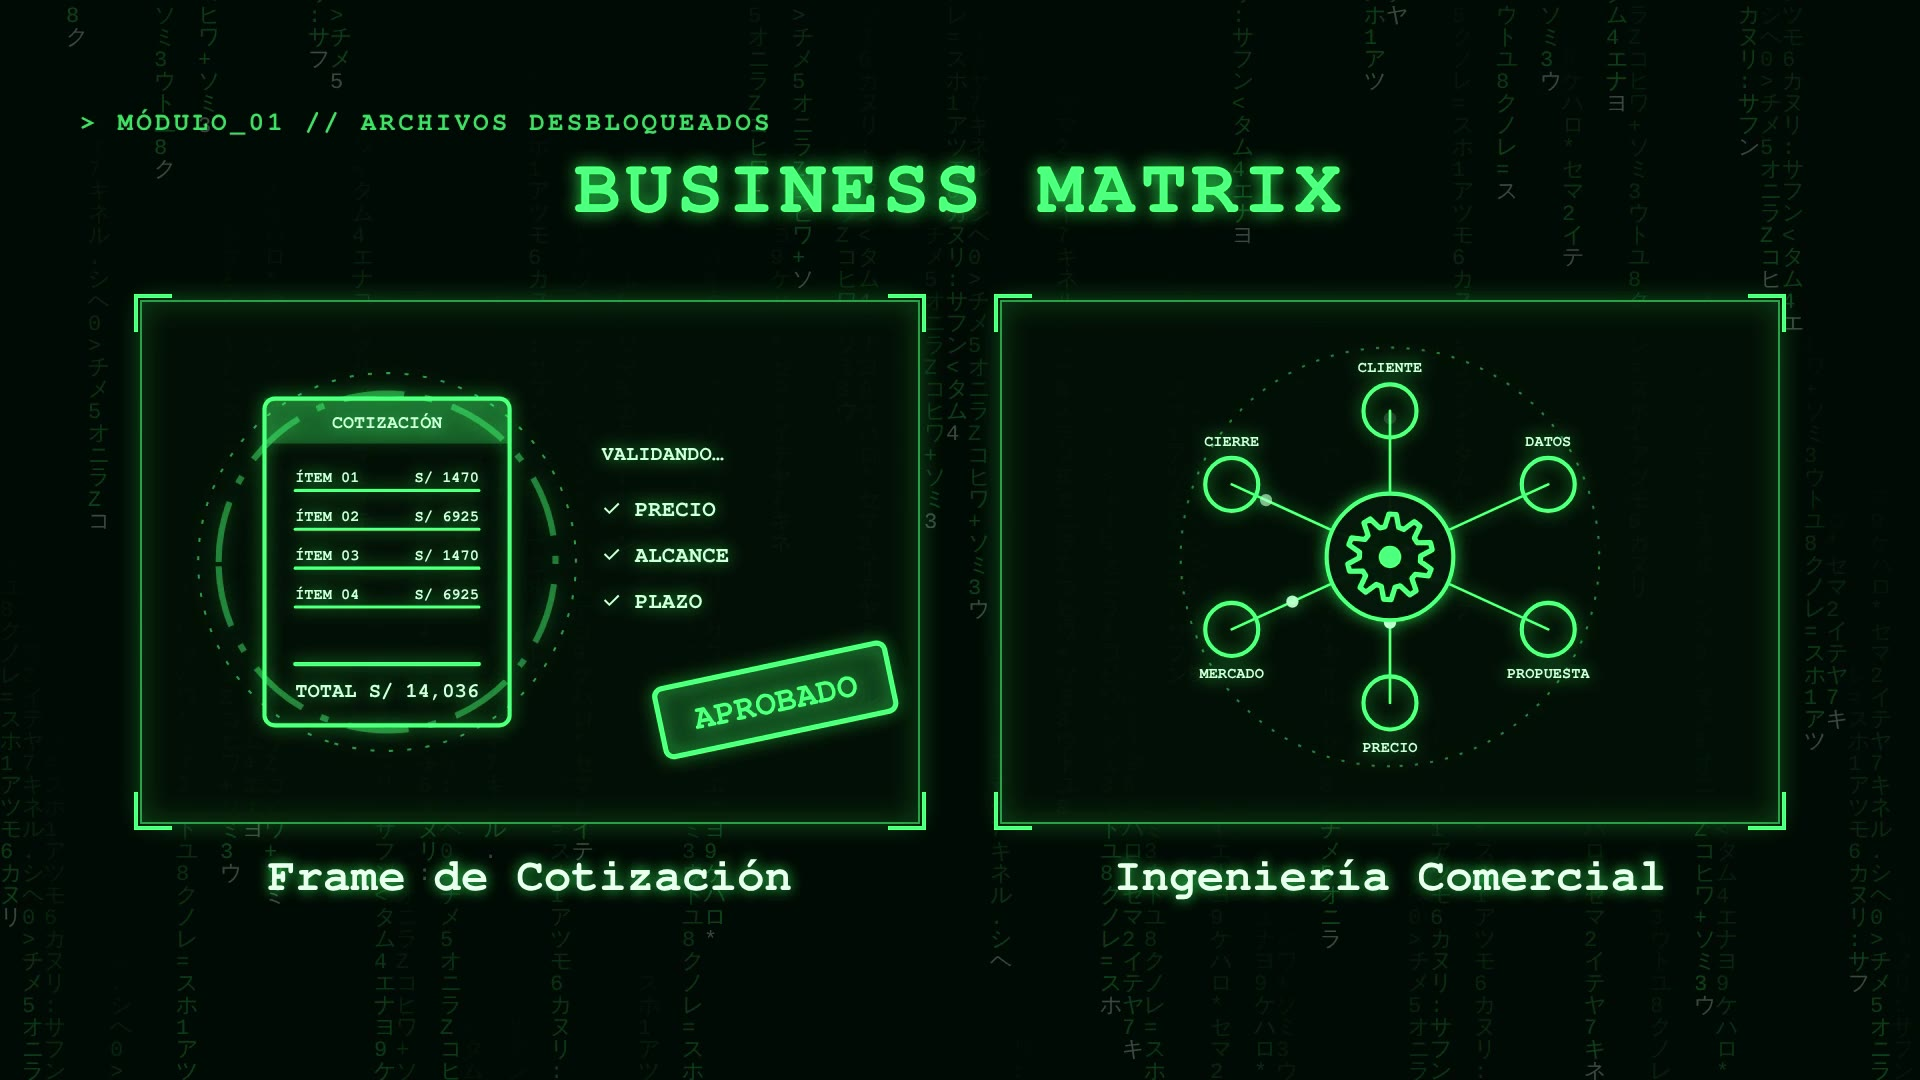
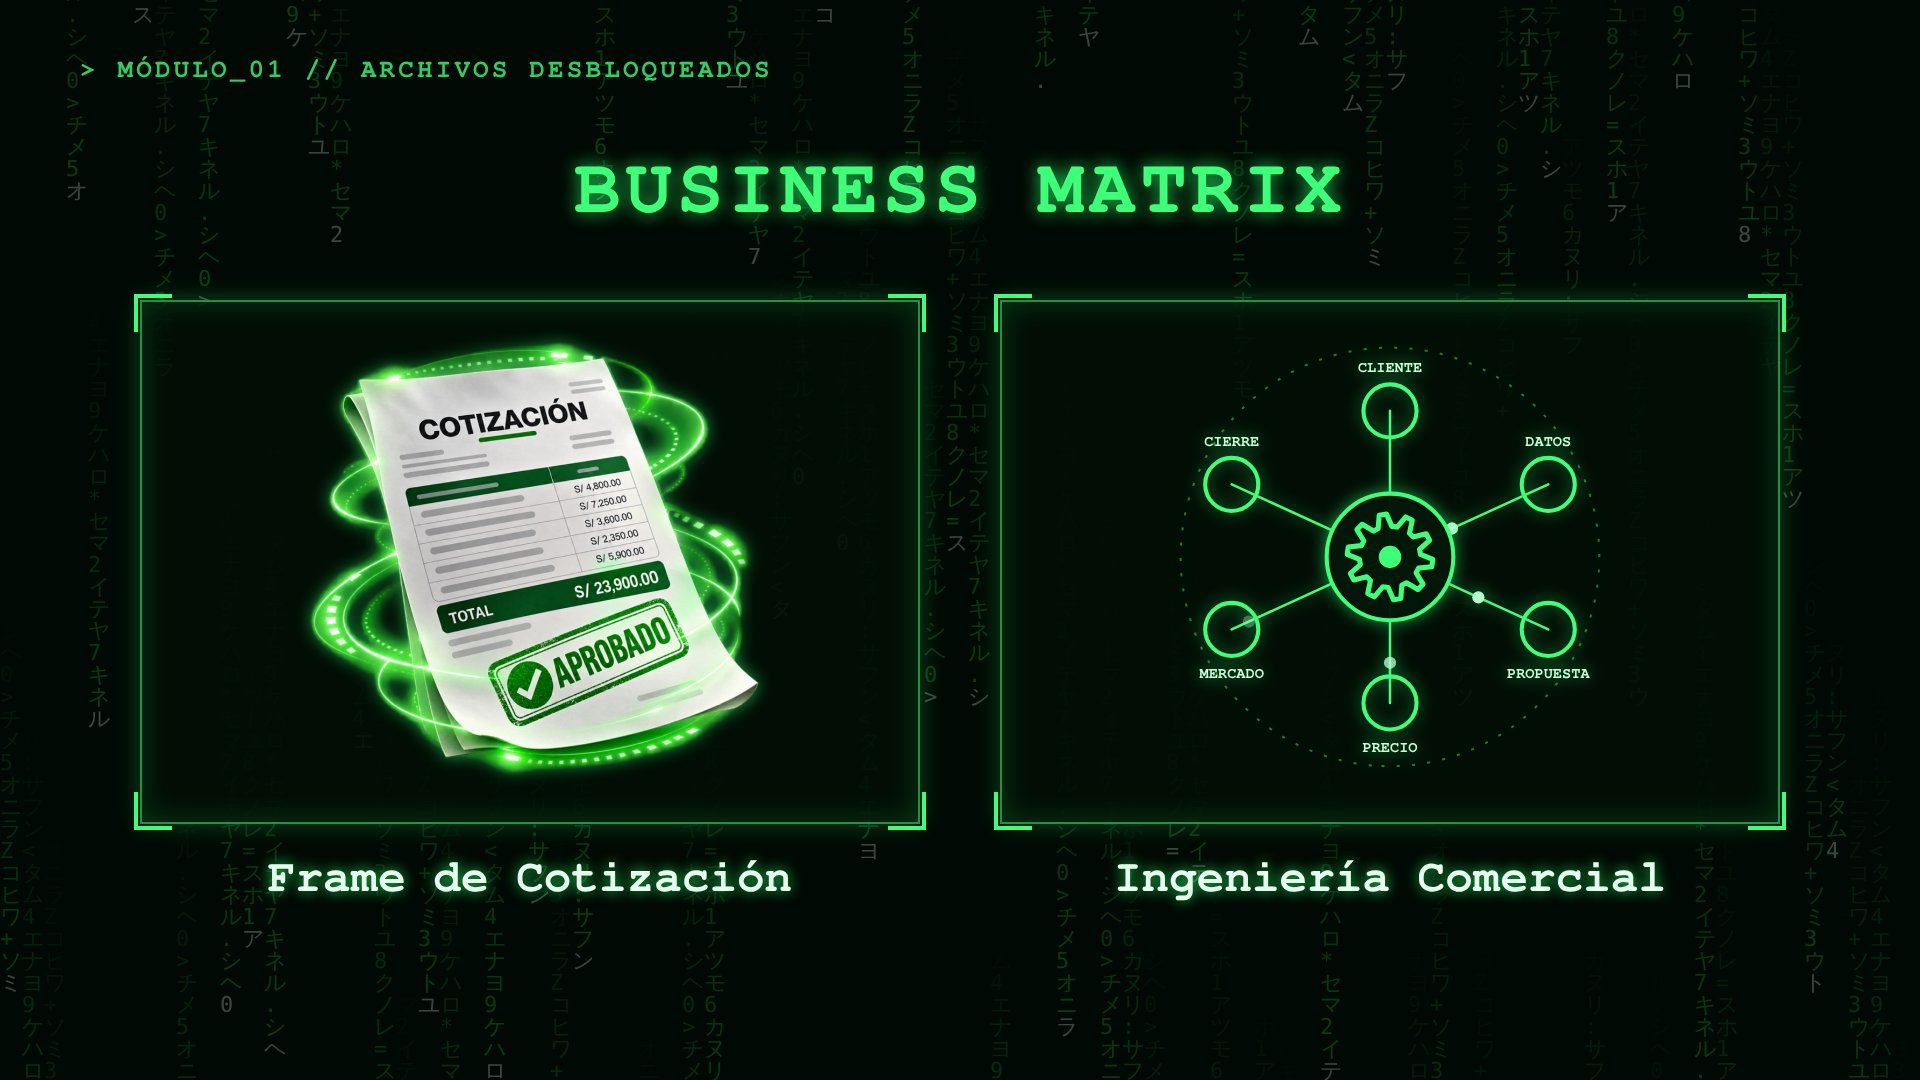
Matrix PPT1: imagen de cotización en lugar del ícono
Claude-Session: https://claude.ai/code/session_01TNESLuQNUwZZ73yDMFRmWn

diff --git a/videos/matrix-2026/compositions/m1-ppt.html b/videos/matrix-2026/compositions/m1-ppt.html
@@ -32,27 +32,7 @@
   <div id="mod" class="abs"></div>
   <div id="h" class="abs"></div>
   <div id="c1" class="abs card">
-    <div class="marco"><svg class="ico" viewBox="0 0 760 440">
-      <g id="anA" opacity=".55"><circle cx="240" cy="220" r="185" stroke="#3dff7a" stroke-width="2" fill="none" stroke-dasharray="4 14"/></g>
-      <g id="anB" opacity=".4"><circle cx="240" cy="220" r="165" stroke="#3dff7a" stroke-width="6" fill="none" stroke-dasharray="60 20 8 20"/></g>
-      <rect stroke="#3dff7a" fill="none" stroke-linecap="round" stroke-linejoin="round" pathLength="1" class="tr" stroke-width="4" x="120" y="60" width="240" height="320" rx="10"/>
-      <rect x="120" y="60" width="240" height="44" fill="rgba(61,255,122,.22)" class="fx" data-t="1.9"/>
-      <text font-family="Maquina, monospace" fill="#c8ffd8" font-size="18" x="240" y="89" text-anchor="middle" class="fx" data-t="1.9">COTIZACIÓN</text>
-      <path stroke="#3dff7a" fill="none" stroke-linecap="round" stroke-linejoin="round" pathLength="1" class="tr" stroke-width="3" d="M150 150 H330"/><text font-family="Maquina, monospace" fill="#c8ffd8" font-size="15" x="150" y="142" class="fx" data-t="2.0">ÍTEM 01</text><text font-family="Maquina, monospace" fill="#c8ffd8" font-size="15" x="330" y="142" text-anchor="end" class="dig" data-t="2.0">S/ 0000</text><path stroke="#3dff7a" fill="none" stroke-linecap="round" stroke-linejoin="round" pathLength="1" class="tr" stroke-width="3" d="M150 188 H330"/><text font-family="Maquina, monospace" fill="#c8ffd8" font-size="15" x="150" y="180" class="fx" data-t="2.25">ÍTEM 02</text><text font-family="Maquina, monospace" fill="#c8ffd8" font-size="15" x="330" y="180" text-anchor="end" class="dig" data-t="2.25">S/ 0000</text><path stroke="#3dff7a" fill="none" stroke-linecap="round" stroke-linejoin="round" pathLength="1" class="tr" stroke-width="3" d="M150 226 H330"/><text font-family="Maquina, monospace" fill="#c8ffd8" font-size="15" x="150" y="218" class="fx" data-t="2.5">ÍTEM 03</text><text font-family="Maquina, monospace" fill="#c8ffd8" font-size="15" x="330" y="218" text-anchor="end" class="dig" data-t="2.5">S/ 0000</text><path stroke="#3dff7a" fill="none" stroke-linecap="round" stroke-linejoin="round" pathLength="1" class="tr" stroke-width="3" d="M150 264 H330"/><text font-family="Maquina, monospace" fill="#c8ffd8" font-size="15" x="150" y="256" class="fx" data-t="2.75">ÍTEM 04</text><text font-family="Maquina, monospace" fill="#c8ffd8" font-size="15" x="330" y="256" text-anchor="end" class="dig" data-t="2.75">S/ 0000</text>
-      <path stroke="#3dff7a" fill="none" stroke-linecap="round" stroke-linejoin="round" pathLength="1" class="tr" stroke-width="4" d="M150 320 H330"/>
-      <text font-family="Maquina, monospace" fill="#c8ffd8" font-size="20" x="150" y="352" class="fx" data-t="3.1">TOTAL</text>
-      <text font-family="Maquina, monospace" fill="#c8ffd8" font-size="20" x="330" y="352" text-anchor="end" class="dig" data-t="3.1">S/ 00,000</text>
-      <g class="fx" data-t="2.2">
-        <text font-family="Maquina, monospace" fill="#c8ffd8" font-size="20" x="450" y="120">VALIDANDO…</text>
-        <text font-family="Maquina, monospace" fill="#c8ffd8" font-size="22" x="450" y="175" class="fx" data-t="2.6">✓ PRECIO</text>
-        <text font-family="Maquina, monospace" fill="#c8ffd8" font-size="22" x="450" y="220" class="fx" data-t="2.9">✓ ALCANCE</text>
-        <text font-family="Maquina, monospace" fill="#c8ffd8" font-size="22" x="450" y="265" class="fx" data-t="3.2">✓ PLAZO</text>
-      </g>
-      <g transform="translate(555 350) rotate(-12)"><g id="sello" opacity="0">
-        <rect x="-115" y="-34" width="230" height="68" rx="8" stroke="#3dff7a" stroke-width="5" fill="rgba(61,255,122,.12)"/>
-        <text font-family="Maquina, monospace" font-size="34" fill="#3dff7a" text-anchor="middle" y="12">APROBADO</text>
-      </g></g>
-    </svg><div class="tapa abs"></div><div class="scan abs"></div>
+    <div class="marco"><img class="ico" src="../assets/iconos/cotizacion.png" style="object-fit:contain;padding:18px;box-sizing:border-box" alt="Frame de Cotización"/><div class="tapa abs"></div><div class="scan abs"></div>
       <i class="esq a"></i><i class="esq b"></i><i class="esq c"></i><i class="esq d"></i></div>
     <div class="tit" id="t1"></div>
   </div>
@@ -122,8 +102,6 @@
     return d + "Z";
   }
   function hud(t) {
-    document.getElementById("anA").setAttribute("transform", `rotate(${t * 12} 240 220)`);
-    document.getElementById("anB").setAttribute("transform", `rotate(${-t * 20} 240 220)`);
     document.getElementById("anC").setAttribute("transform", `rotate(${t * 10} 380 215)`);
     document.getElementById("engr").setAttribute("d", engranaje(30, 42, 10, t * 0.8));
     fx.forEach(e => e.style.opacity = t >= +e.dataset.t ? 1 : 0);
@@ -149,7 +127,8 @@
     tl.fromTo(c + " .tr", { strokeDashoffset: 1 }, { strokeDashoffset: 0, duration: 0.9, stagger: 0.12, ease: "power1.inOut", immediateRender: false }, d + 0.5);
   });
   window.__timelines = window.__timelines || {};
-  tl.fromTo("#sello", { opacity: 0, scale: 2.2 }, { opacity: 1, scale: 1, duration: 0.35, ease: "back.out(2)", immediateRender: false, svgOrigin: "0 0" }, 3.7);
+  // la imagen de la cotización "flota" suavemente
+  tl.fromTo("#c1 .ico", { y: 0 }, { y: -10, duration: 1.6, ease: "sine.inOut", repeat: 5, yoyo: true, immediateRender: false }, 2.0);
   window.__timelines["m1-ppt"] = tl;
   pintar(); tl.seek(0);
   // modo presentación: tras la entrada, la lluvia sigue en bucle
